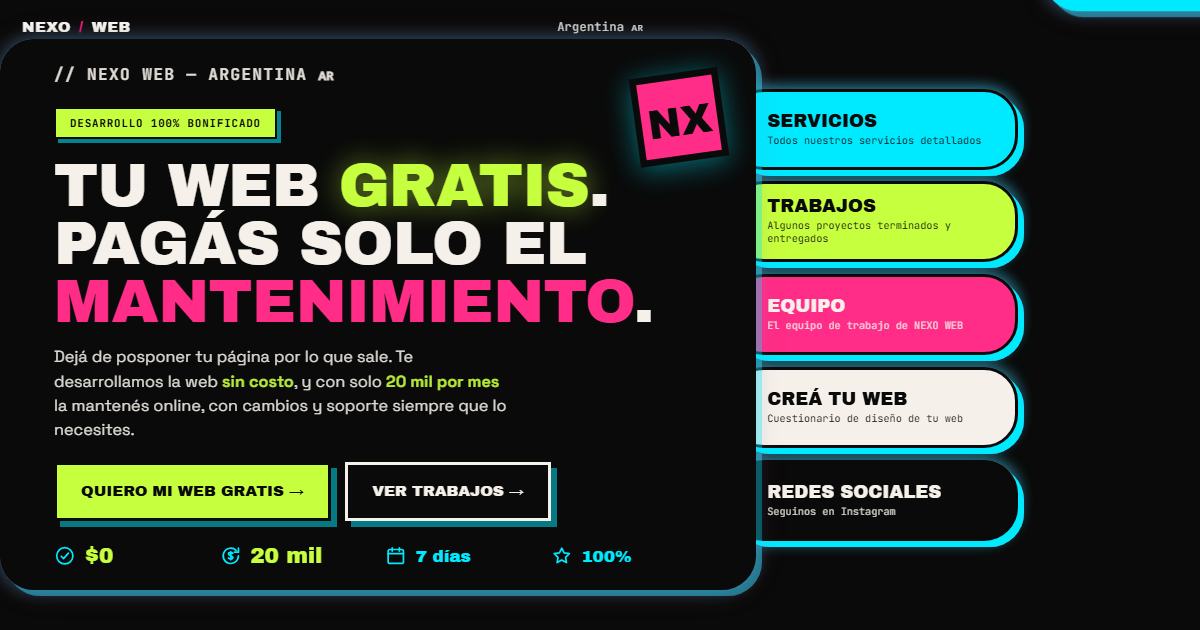
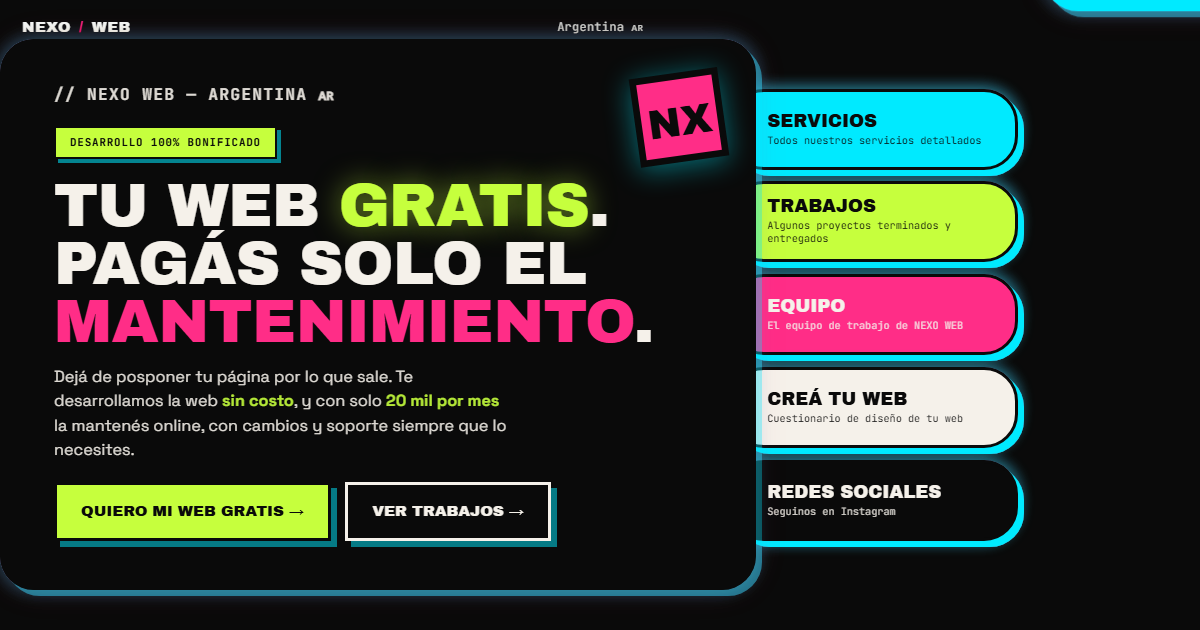
Quita los items de abajo de los botones del hero (tambien en PC); OG actualizado

Changed region(s): [[0.0308, 0.0905, 0.555, 0.9048], [0.4625, 0.8746, 0.5242, 0.9048]]

diff --git a/index.html b/index.html
@@ -484,24 +484,6 @@
           <a class="btn btn--free" href="https://wa.me/5491122534358?text=Hola%20NEXO%20WEB%2C%20quiero%20mi%20web%20gratis" target="_blank" rel="noopener">Quiero mi web gratis →</a>
           <a class="btn btn--works" href="#">Ver trabajos →</a>
         </div>
-        <ul class="intro-feats">
-          <li>
-            <span class="ico"><svg viewBox="0 0 24 24" aria-hidden="true"><circle cx="12" cy="12" r="9"/><path d="M8 12.5l2.6 2.6L16 9"/></svg></span>
-            <span class="feat-info"><b>$0</b><span class="lbl">[ De desarrollo ]</span></span>
-          </li>
-          <li>
-            <span class="ico"><svg viewBox="0 0 24 24" aria-hidden="true"><path d="M20.5 12a8.5 8.5 0 1 1-2.6-6.1"/><path d="M20.5 3.5V8H16"/><path d="M12 7.6v8.8M14.2 9.3c-.6-.7-1.4-1.05-2.4-1.05-1.35 0-2.3.72-2.3 1.75 0 2.5 4.8 1.35 4.8 3.85 0 1.03-1 1.75-2.4 1.75-1.05 0-1.9-.4-2.5-1.15"/></svg></span>
-            <span class="feat-info"><b>20 mil</b><span class="lbl">[ Suscripción mensual ]</span></span>
-          </li>
-          <li>
-            <span class="ico"><svg viewBox="0 0 24 24" aria-hidden="true"><rect x="3.5" y="5" width="17" height="15.5" rx="2"/><path d="M3.5 9.5h17M8 3.3v3.4M16 3.3v3.4"/></svg></span>
-            <span class="feat-info"><b>7 días</b><span class="lbl">[ Y está lista ]</span></span>
-          </li>
-          <li>
-            <span class="ico"><svg viewBox="0 0 24 24" aria-hidden="true"><path d="M12 3.5l2.6 5.27 5.82.85-4.21 4.1.99 5.78L12 16.78l-5.2 2.72.99-5.78-4.21-4.1 5.82-.85z"/></svg></span>
-            <span class="feat-info"><b>100%</b><span class="lbl">[ Personalizada ]</span></span>
-          </li>
-        </ul>
         </div>
         <!-- ACCESO RÁPIDO: 5 botones que asoman por detrás del intro (solo PC) -->
         <div class="side-access">
